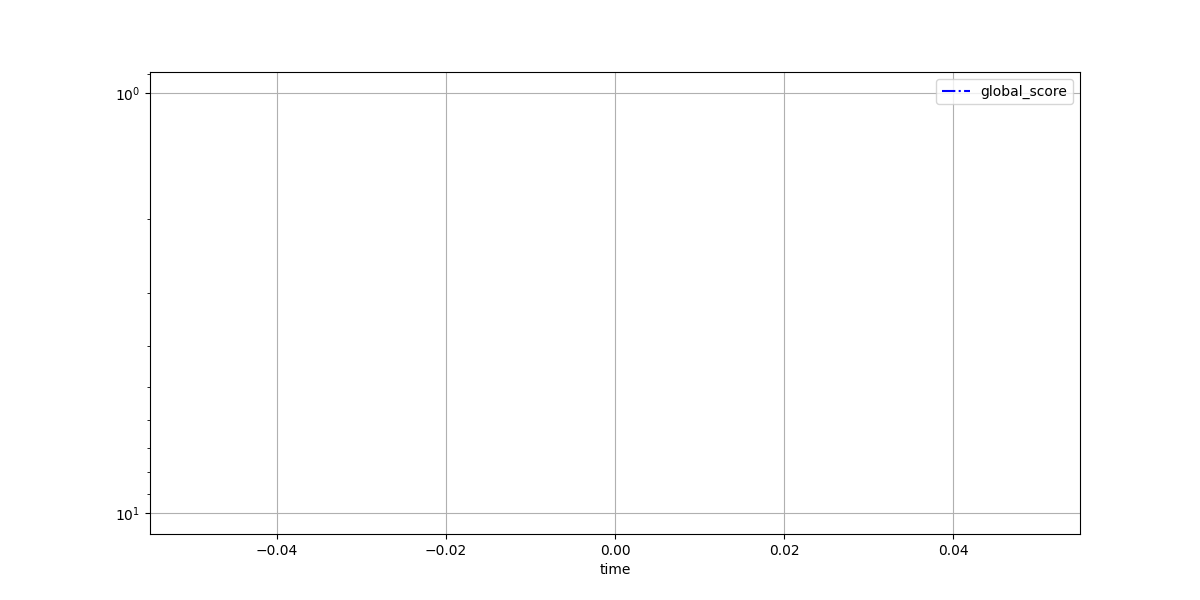
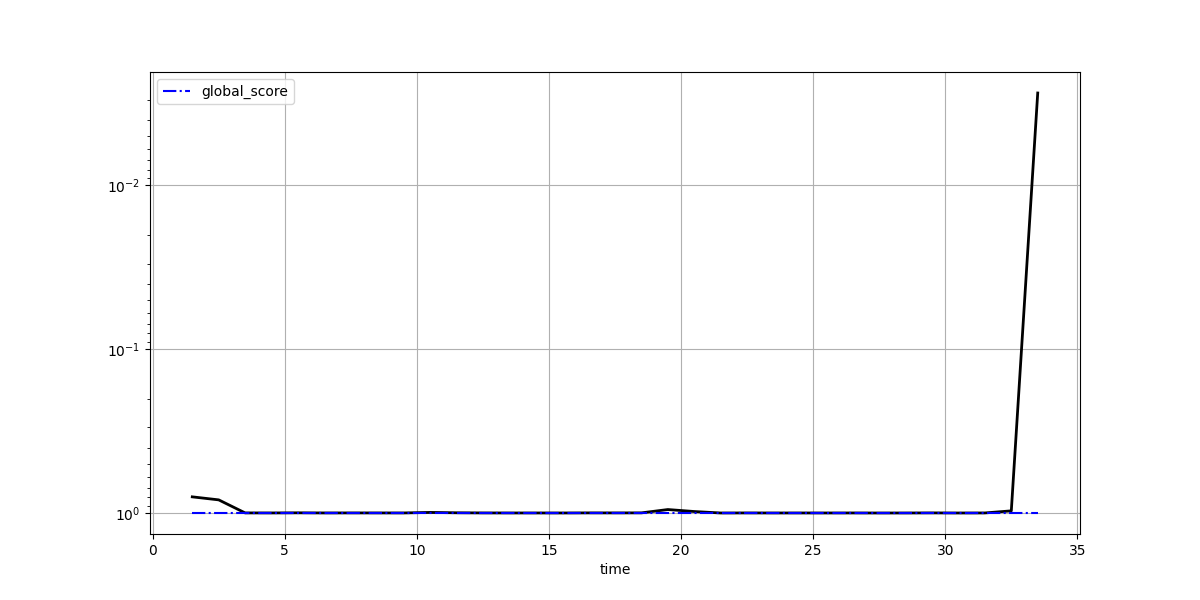
mod detector

diff --git a/embedding_test.py b/embedding_test.py
@@ -1,8 +1,11 @@
 import numpy as np 
  
 # Load embeddings from a .npz file 
-data = np.load('/home/tr/MEGA/programming2/L4T2/ML_prj_part2_v2/pois/nicolas-cage/app_poiforensics/vid__4PKe8WGCPg/embs_track16.npz') 
+# data = np.load('/home/tr/MEGA/programming2/L4T2/ML_prj_part2_v2/pois/nicolas-cage/app_poiforensics/vid__4PKe8WGCPg/embs_track16.npz') 
+data = np.load('/home/tr/MEGA/programming2/L4T2/ML_prj_part2_v2/output/testV1.npz')
 dict_out = dict(data) 
+
+print(dict_out)
  
 # Access specific embeddings 
 audio_embeddings = dict_out['embs_feat_audio']  # Shape: (N, feature_dim) 

diff --git a/grip_unina/poi_forensics/detector.py b/grip_unina/poi_forensics/detector.py
@@ -103,6 +103,8 @@ class PoiForensics:
                                  n_fft=self.opt['audio']['num_fft'],
                                  window_step=self.opt['audio']['window_step'],
                                  window_length=self.opt['audio']['window_length'])
+        print("Audio data in comp dist: ")
+        print(audiodata.shape)
 
         total = len(audiodata) * (self.opt['audio']['window_step']*self.opt['fps']) // 1000
 
